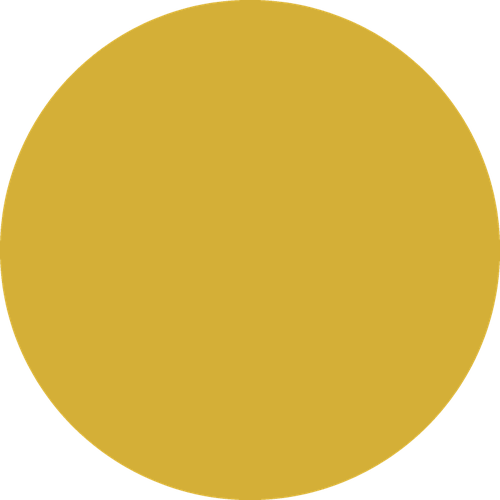
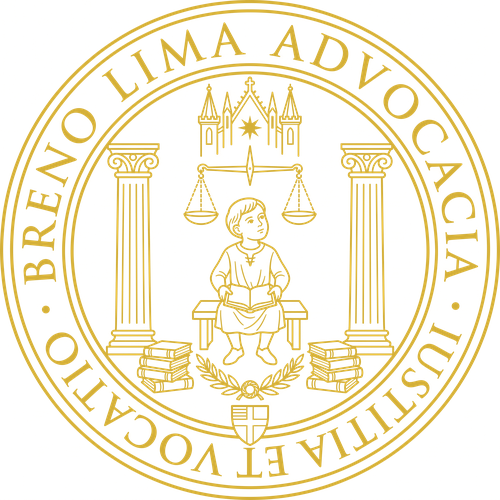
corrige bug do selo + centramento via grid 3 colunas
bug corrigido: seal-gold-mono virou disco solido porque o script
convertia todos os pixels opacos pra dourado, incluindo o fundo
branco interno do circulo. novo processamento usa 'stencil por
escuridao' - alpha do pixel proporcional a quao escuro ele era no
original (branco=transp, navy=opaco), cor uniforme. resultado:
linework puro dourado com interior transparente.

centramento corrigido: flex justify-content:center centralizava a
massa total, mas como selo (220px) << wordmark (560px), o divider
ficava deslocado pra esquerda do centro da tela. agora uso grid 3
colunas 1fr auto 1fr com justify-self end/center/start - divisor
fica no centro real, selo alinha a direita na coluna esquerda,
wordmark alinha a esquerda na coluna direita (simetria perfeita).

tambem:
- hero-wordmark max-width 560 -> 480 (mais equilibrado com selo)
- divider altura 160 -> 180 (proporcional ao texto duas linhas)
- mobile 980px: grid-template-columns 1fr + justify-items center

diff --git a/index.html b/index.html
@@ -195,22 +195,22 @@
   .hero-rating-text{font-size:14px;color:#cbd5e4;line-height:1.45}
   .hero-rating-text strong{color:#fff;font-weight:700}
 
-  /* HERO LOGO HORIZONTAL — selo + wordmark lado a lado, centralizado */
+  /* HERO LOGO HORIZONTAL — grid 3 colunas: divisor no centro real da tela */
   .hero-logo{
-    display:flex;align-items:center;justify-content:center;gap:40px;
+    display:grid;grid-template-columns:1fr auto 1fr;align-items:center;gap:40px;
     padding:80px 32px 48px;position:relative;
     max-width:1100px;margin:0 auto;
   }
   .hero-seal{
-    width:220px;height:220px;flex-shrink:0;object-fit:contain;
+    width:220px;height:220px;justify-self:end;object-fit:contain;
     filter:drop-shadow(0 16px 36px rgba(0,0,0,.35)) drop-shadow(0 0 28px rgba(212,175,55,.25));
   }
   .hero-logo-divider{
-    width:1px;height:160px;flex-shrink:0;
+    width:1px;height:180px;
     background:linear-gradient(180deg,transparent,rgba(212,175,55,.7),transparent);
   }
   .hero-wordmark{
-    width:auto;height:160px;max-width:560px;flex-shrink:0;object-fit:contain;
+    height:180px;max-width:480px;justify-self:start;object-fit:contain;object-position:left center;
   }
 
   /* Conteúdo centralizado abaixo da logo */
@@ -241,9 +241,9 @@
   @media(max-width:1020px){
     .hero{padding:40px 0 0}
     .hero-logo{gap:28px;padding:48px 24px 32px}
-    .hero-seal{width:190px;height:190px}
-    .hero-logo-divider{height:140px}
-    .hero-wordmark{height:140px;max-width:440px}
+    .hero-seal{width:180px;height:180px}
+    .hero-logo-divider{height:150px}
+    .hero-wordmark{height:150px;max-width:400px}
     .hero-content{padding-bottom:100px}
   }
   @media(max-width:540px){
@@ -672,14 +672,14 @@
      MOBILE TUNING — refinamento completo para telas pequenas
      ================================================================= */
   @media(max-width:980px){
-    /* Logo vira vertical em tablets: selo em cima, divider horizontal, wordmark embaixo — tudo centralizado */
-    .hero-logo{flex-direction:column;gap:20px;padding:40px 20px 28px;max-width:100%}
-    .hero-seal{width:200px;height:200px}
+    /* Logo vira vertical em tablets: 1 coluna, tudo centralizado */
+    .hero-logo{grid-template-columns:1fr;gap:20px;padding:40px 20px 28px;max-width:100%;justify-items:center}
+    .hero-seal{width:200px;height:200px;justify-self:center}
     .hero-logo-divider{
       width:120px;height:1px;
       background:linear-gradient(90deg,transparent,rgba(212,175,55,.7),transparent);
     }
-    .hero-wordmark{width:100%;height:auto;max-width:420px}
+    .hero-wordmark{width:100%;height:auto;max-width:380px;justify-self:center;object-position:center}
     .hero-content{padding-bottom:80px}
     .hero-eye{margin-top:16px}
     .hero h1{max-width:100%}
